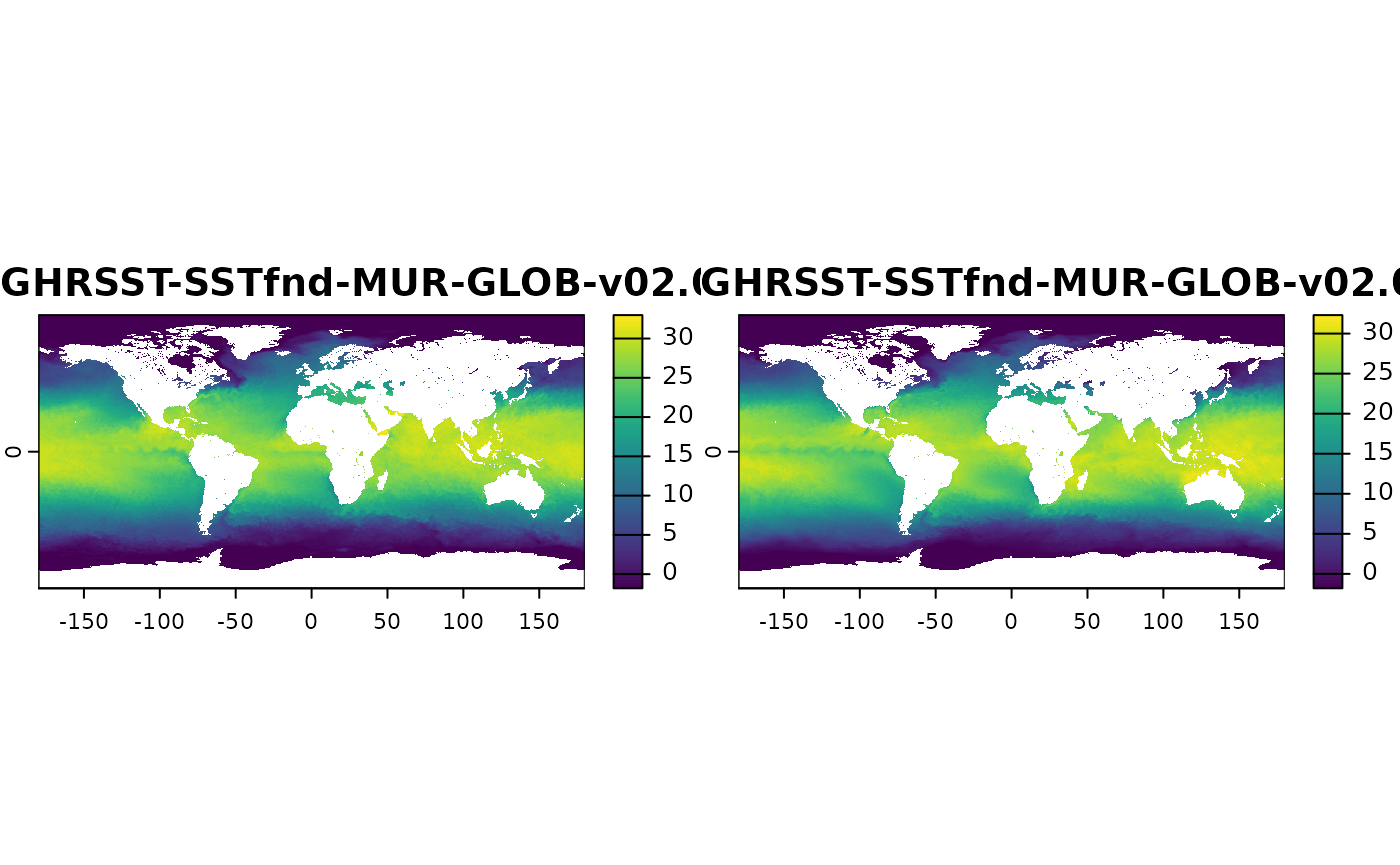
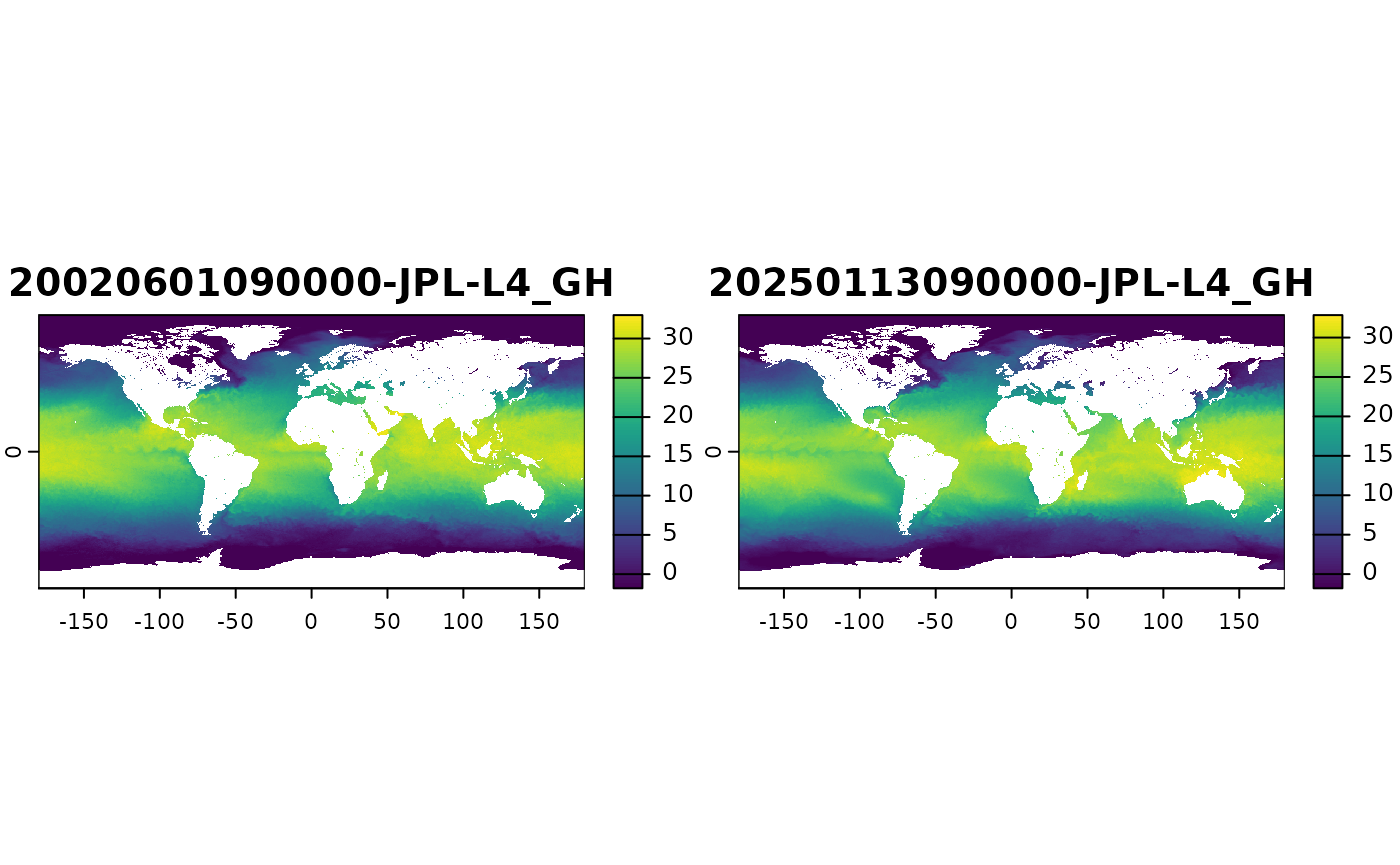
Deploying to gh-pages from @ mdsumner/sooty.watch@501e9f09278984d0c46638ced37482917cf369a6 🚀

diff --git a/articles/sooty-watch.html b/articles/sooty-watch.html
@@ -84,11 +84,11 @@
 <span><span class="co">#&gt; <span style="color: #949494;"># A tibble: 6 × 4</span></span></span>
 <span><span class="co">#&gt;   Dataset                        mindate             maxdate                 n</span></span>
 <span><span class="co">#&gt;   <span style="color: #949494; font-style: italic;">&lt;chr&gt;</span>                          <span style="color: #949494; font-style: italic;">&lt;dttm&gt;</span>              <span style="color: #949494; font-style: italic;">&lt;dttm&gt;</span>              <span style="color: #949494; font-style: italic;">&lt;int&gt;</span></span></span>
-<span><span class="co">#&gt; <span style="color: #BCBCBC;">1</span> NSIDC_SEAICE_PS_N25km          1978-10-26 <span style="color: #949494;">00:00:00</span> 2025-01-12 <span style="color: #949494;">00:00:00</span> <span style="text-decoration: underline;">16</span>875</span></span>
-<span><span class="co">#&gt; <span style="color: #BCBCBC;">2</span> NSIDC_SEAICE_PS_S25km          1978-10-26 <span style="color: #949494;">00:00:00</span> 2025-01-12 <span style="color: #949494;">00:00:00</span> <span style="text-decoration: underline;">16</span>875</span></span>
-<span><span class="co">#&gt; <span style="color: #BCBCBC;">3</span> antarctica-amsr2-asi-s3125-tif 2012-07-02 <span style="color: #949494;">00:00:00</span> 2025-01-12 <span style="color: #949494;">00:00:00</span>  <span style="text-decoration: underline;">4</span>567</span></span>
-<span><span class="co">#&gt; <span style="color: #BCBCBC;">4</span> oisst-avhrr-v02r01             1981-09-01 <span style="color: #949494;">00:00:00</span> 2025-01-07 <span style="color: #949494;">00:00:00</span> <span style="text-decoration: underline;">15</span>835</span></span>
-<span><span class="co">#&gt; <span style="color: #BCBCBC;">5</span> ghrsst-tif                     2002-06-01 <span style="color: #949494;">00:00:00</span> 2024-12-21 <span style="color: #949494;">00:00:00</span>   475</span></span>
+<span><span class="co">#&gt; <span style="color: #BCBCBC;">1</span> ghrsst-tif                     2002-06-01 <span style="color: #949494;">00:00:00</span> 2025-01-13 <span style="color: #949494;">00:00:00</span>  <span style="text-decoration: underline;">1</span>168</span></span>
+<span><span class="co">#&gt; <span style="color: #BCBCBC;">2</span> NSIDC_SEAICE_PS_N25km          1978-10-26 <span style="color: #949494;">00:00:00</span> 2025-01-12 <span style="color: #949494;">00:00:00</span> <span style="text-decoration: underline;">16</span>875</span></span>
+<span><span class="co">#&gt; <span style="color: #BCBCBC;">3</span> NSIDC_SEAICE_PS_S25km          1978-10-26 <span style="color: #949494;">00:00:00</span> 2025-01-12 <span style="color: #949494;">00:00:00</span> <span style="text-decoration: underline;">16</span>875</span></span>
+<span><span class="co">#&gt; <span style="color: #BCBCBC;">4</span> antarctica-amsr2-asi-s3125-tif 2012-07-02 <span style="color: #949494;">00:00:00</span> 2025-01-12 <span style="color: #949494;">00:00:00</span>  <span style="text-decoration: underline;">4</span>567</span></span>
+<span><span class="co">#&gt; <span style="color: #BCBCBC;">5</span> oisst-avhrr-v02r01             1981-09-01 <span style="color: #949494;">00:00:00</span> 2025-01-07 <span style="color: #949494;">00:00:00</span> <span style="text-decoration: underline;">15</span>835</span></span>
 <span><span class="co">#&gt; <span style="color: #BCBCBC;">6</span> SEALEVEL_GLO_PHY_L4            1993-01-01 <span style="color: #949494;">00:00:00</span> 2024-11-25 <span style="color: #949494;">00:00:00</span> <span style="text-decoration: underline;">11</span>538</span></span>
 <span></span>
 <span><span class="fu"><a href="../reference/watch.html">watch_buckets</a></span><span class="op">(</span><span class="op">)</span></span>
@@ -99,7 +99,7 @@
 <span><span class="co">#&gt; <span style="color: #BCBCBC;">2</span> idea-10.7289-v5sq8xb5                             <span style="text-decoration: underline;">15</span>835</span></span>
 <span><span class="co">#&gt; <span style="color: #BCBCBC;">3</span> idea-sealevel-glo-phy-l4-rep-observations-008-047 <span style="text-decoration: underline;">11</span>208</span></span>
 <span><span class="co">#&gt; <span style="color: #BCBCBC;">4</span> idea-amsr2-asi-s3125                               <span style="text-decoration: underline;">4</span>567</span></span>
-<span><span class="co">#&gt; <span style="color: #BCBCBC;">5</span> idea-ghrsst                                         475</span></span>
+<span><span class="co">#&gt; <span style="color: #BCBCBC;">5</span> idea-ghrsst                                        <span style="text-decoration: underline;">1</span>168</span></span>
 <span><span class="co">#&gt; <span style="color: #BCBCBC;">6</span> idea-sealevel-glo-phy-l4-nrt-008-046                330</span></span></code></pre></div>
 <p>For each dataset, let’s get the first and last and plot.</p>
 <div class="sourceCode" id="cb2"><pre class="downlit sourceCode r">
@@ -107,7 +107,11 @@
 <span><span class="va">datasets</span> <span class="op">&lt;-</span> <span class="fu"><a href="https://dplyr.tidyverse.org/reference/group_by.html" class="external-link">group_by</a></span><span class="op">(</span><span class="fu">sooty</span><span class="fu">::</span><span class="fu"><a href="https://rdrr.io/pkg/sooty/man/sooty_files.html" class="external-link">sooty_files</a></span><span class="op">(</span><span class="op">)</span>, <span class="va">Dataset</span><span class="op">)</span></span>
 <span></span>
 <span><span class="va">th</span> <span class="op">&lt;-</span> <span class="kw">function</span><span class="op">(</span><span class="va">x</span>, <span class="va">...</span><span class="op">)</span> <span class="fu"><a href="https://rdrr.io/r/base/cbind.html" class="external-link">rbind</a></span><span class="op">(</span><span class="fu"><a href="https://rdrr.io/r/utils/head.html" class="external-link">head</a></span><span class="op">(</span><span class="va">x</span>, <span class="fl">1L</span><span class="op">)</span>, <span class="fu"><a href="https://rdrr.io/r/utils/head.html" class="external-link">tail</a></span><span class="op">(</span><span class="va">x</span>, <span class="fl">1L</span><span class="op">)</span><span class="op">)</span></span>
-<span><span class="va">read1</span> <span class="op">&lt;-</span> <span class="kw">function</span><span class="op">(</span><span class="va">x</span><span class="op">)</span> <span class="fu">terra</span><span class="fu">::</span><span class="fu"><a href="https://rspatial.github.io/terra/reference/rast.html" class="external-link">rast</a></span><span class="op">(</span><span class="va">x</span><span class="op">)</span><span class="op">[[</span><span class="fl">1</span><span class="op">]</span><span class="op">]</span></span>
+<span><span class="va">read1</span> <span class="op">&lt;-</span> <span class="kw">function</span><span class="op">(</span><span class="va">x</span><span class="op">)</span> <span class="op">{</span></span>
+<span>  <span class="va">out</span> <span class="op">&lt;-</span> <span class="fu">terra</span><span class="fu">::</span><span class="fu"><a href="https://rspatial.github.io/terra/reference/rast.html" class="external-link">rast</a></span><span class="op">(</span><span class="va">x</span><span class="op">)</span><span class="op">[[</span><span class="fl">1</span><span class="op">]</span><span class="op">]</span></span>
+<span>  <span class="fu"><a href="https://rdrr.io/r/base/names.html" class="external-link">names</a></span><span class="op">(</span><span class="va">out</span><span class="op">)</span> <span class="op">&lt;-</span> <span class="fu"><a href="https://rdrr.io/r/base/substr.html" class="external-link">substr</a></span><span class="op">(</span><span class="fu"><a href="https://rdrr.io/r/base/names.html" class="external-link">names</a></span><span class="op">(</span><span class="va">out</span><span class="op">)</span>, <span class="fl">1</span>, <span class="fl">24</span><span class="op">)</span></span>
+<span><span class="va">out</span></span>
+<span><span class="op">}</span></span>
 <span><span class="fu">dplyr</span><span class="fu">::</span><span class="fu"><a href="https://dplyr.tidyverse.org/reference/group_map.html" class="external-link">group_map</a></span><span class="op">(</span><span class="va">datasets</span>, \<span class="op">(</span><span class="va">.x</span>, <span class="va">...</span><span class="op">)</span> <span class="kw"><a href="https://rdrr.io/r/base/try.html" class="external-link">try</a></span><span class="op">(</span><span class="fu">terra</span><span class="fu">::</span><span class="fu"><a href="https://rspatial.github.io/terra/reference/plot.html" class="external-link">plot</a></span><span class="op">(</span><span class="fu"><a href="https://rdrr.io/r/base/do.call.html" class="external-link">do.call</a></span><span class="op">(</span><span class="va">c</span>, <span class="fu"><a href="https://rdrr.io/r/base/lapply.html" class="external-link">lapply</a></span><span class="op">(</span><span class="fu">th</span><span class="op">(</span><span class="va">.x</span><span class="op">)</span><span class="op">$</span><span class="va">source</span>, <span class="va">read1</span><span class="op">)</span><span class="op">)</span><span class="op">)</span><span class="op">)</span><span class="op">)</span></span></code></pre></div>
 <p><img src="sooty-watch_files/figure-html/datasets-1.png" width="700"><img src="sooty-watch_files/figure-html/datasets-2.png" width="700"><img src="sooty-watch_files/figure-html/datasets-3.png" width="700"></p>
 <pre><code><span><span class="co">#&gt; Warning: [rast] CRS do not match</span></span></code></pre>

diff --git a/reference/watch.html b/reference/watch.html
@@ -72,11 +72,11 @@
 <span class="r-out co"><span class="r-pr">#&gt;</span> <span style="color: #949494;"># A tibble: 6 × 4</span></span>
 <span class="r-out co"><span class="r-pr">#&gt;</span>   Dataset                        mindate             maxdate                 n</span>
 <span class="r-out co"><span class="r-pr">#&gt;</span>   <span style="color: #949494; font-style: italic;">&lt;chr&gt;</span>                          <span style="color: #949494; font-style: italic;">&lt;dttm&gt;</span>              <span style="color: #949494; font-style: italic;">&lt;dttm&gt;</span>              <span style="color: #949494; font-style: italic;">&lt;int&gt;</span></span>
-<span class="r-out co"><span class="r-pr">#&gt;</span> <span style="color: #BCBCBC;">1</span> NSIDC_SEAICE_PS_N25km          1978-10-26 <span style="color: #949494;">00:00:00</span> 2025-01-12 <span style="color: #949494;">00:00:00</span> <span style="text-decoration: underline;">16</span>875</span>
-<span class="r-out co"><span class="r-pr">#&gt;</span> <span style="color: #BCBCBC;">2</span> NSIDC_SEAICE_PS_S25km          1978-10-26 <span style="color: #949494;">00:00:00</span> 2025-01-12 <span style="color: #949494;">00:00:00</span> <span style="text-decoration: underline;">16</span>875</span>
-<span class="r-out co"><span class="r-pr">#&gt;</span> <span style="color: #BCBCBC;">3</span> antarctica-amsr2-asi-s3125-tif 2012-07-02 <span style="color: #949494;">00:00:00</span> 2025-01-12 <span style="color: #949494;">00:00:00</span>  <span style="text-decoration: underline;">4</span>567</span>
-<span class="r-out co"><span class="r-pr">#&gt;</span> <span style="color: #BCBCBC;">4</span> oisst-avhrr-v02r01             1981-09-01 <span style="color: #949494;">00:00:00</span> 2025-01-07 <span style="color: #949494;">00:00:00</span> <span style="text-decoration: underline;">15</span>835</span>
-<span class="r-out co"><span class="r-pr">#&gt;</span> <span style="color: #BCBCBC;">5</span> ghrsst-tif                     2002-06-01 <span style="color: #949494;">00:00:00</span> 2024-12-21 <span style="color: #949494;">00:00:00</span>   475</span>
+<span class="r-out co"><span class="r-pr">#&gt;</span> <span style="color: #BCBCBC;">1</span> ghrsst-tif                     2002-06-01 <span style="color: #949494;">00:00:00</span> 2025-01-13 <span style="color: #949494;">00:00:00</span>  <span style="text-decoration: underline;">1</span>168</span>
+<span class="r-out co"><span class="r-pr">#&gt;</span> <span style="color: #BCBCBC;">2</span> NSIDC_SEAICE_PS_N25km          1978-10-26 <span style="color: #949494;">00:00:00</span> 2025-01-12 <span style="color: #949494;">00:00:00</span> <span style="text-decoration: underline;">16</span>875</span>
+<span class="r-out co"><span class="r-pr">#&gt;</span> <span style="color: #BCBCBC;">3</span> NSIDC_SEAICE_PS_S25km          1978-10-26 <span style="color: #949494;">00:00:00</span> 2025-01-12 <span style="color: #949494;">00:00:00</span> <span style="text-decoration: underline;">16</span>875</span>
+<span class="r-out co"><span class="r-pr">#&gt;</span> <span style="color: #BCBCBC;">4</span> antarctica-amsr2-asi-s3125-tif 2012-07-02 <span style="color: #949494;">00:00:00</span> 2025-01-12 <span style="color: #949494;">00:00:00</span>  <span style="text-decoration: underline;">4</span>567</span>
+<span class="r-out co"><span class="r-pr">#&gt;</span> <span style="color: #BCBCBC;">5</span> oisst-avhrr-v02r01             1981-09-01 <span style="color: #949494;">00:00:00</span> 2025-01-07 <span style="color: #949494;">00:00:00</span> <span style="text-decoration: underline;">15</span>835</span>
 <span class="r-out co"><span class="r-pr">#&gt;</span> <span style="color: #BCBCBC;">6</span> SEALEVEL_GLO_PHY_L4            1993-01-01 <span style="color: #949494;">00:00:00</span> 2024-11-25 <span style="color: #949494;">00:00:00</span> <span style="text-decoration: underline;">11</span>538</span>
 </code></pre></div>
     </div>
